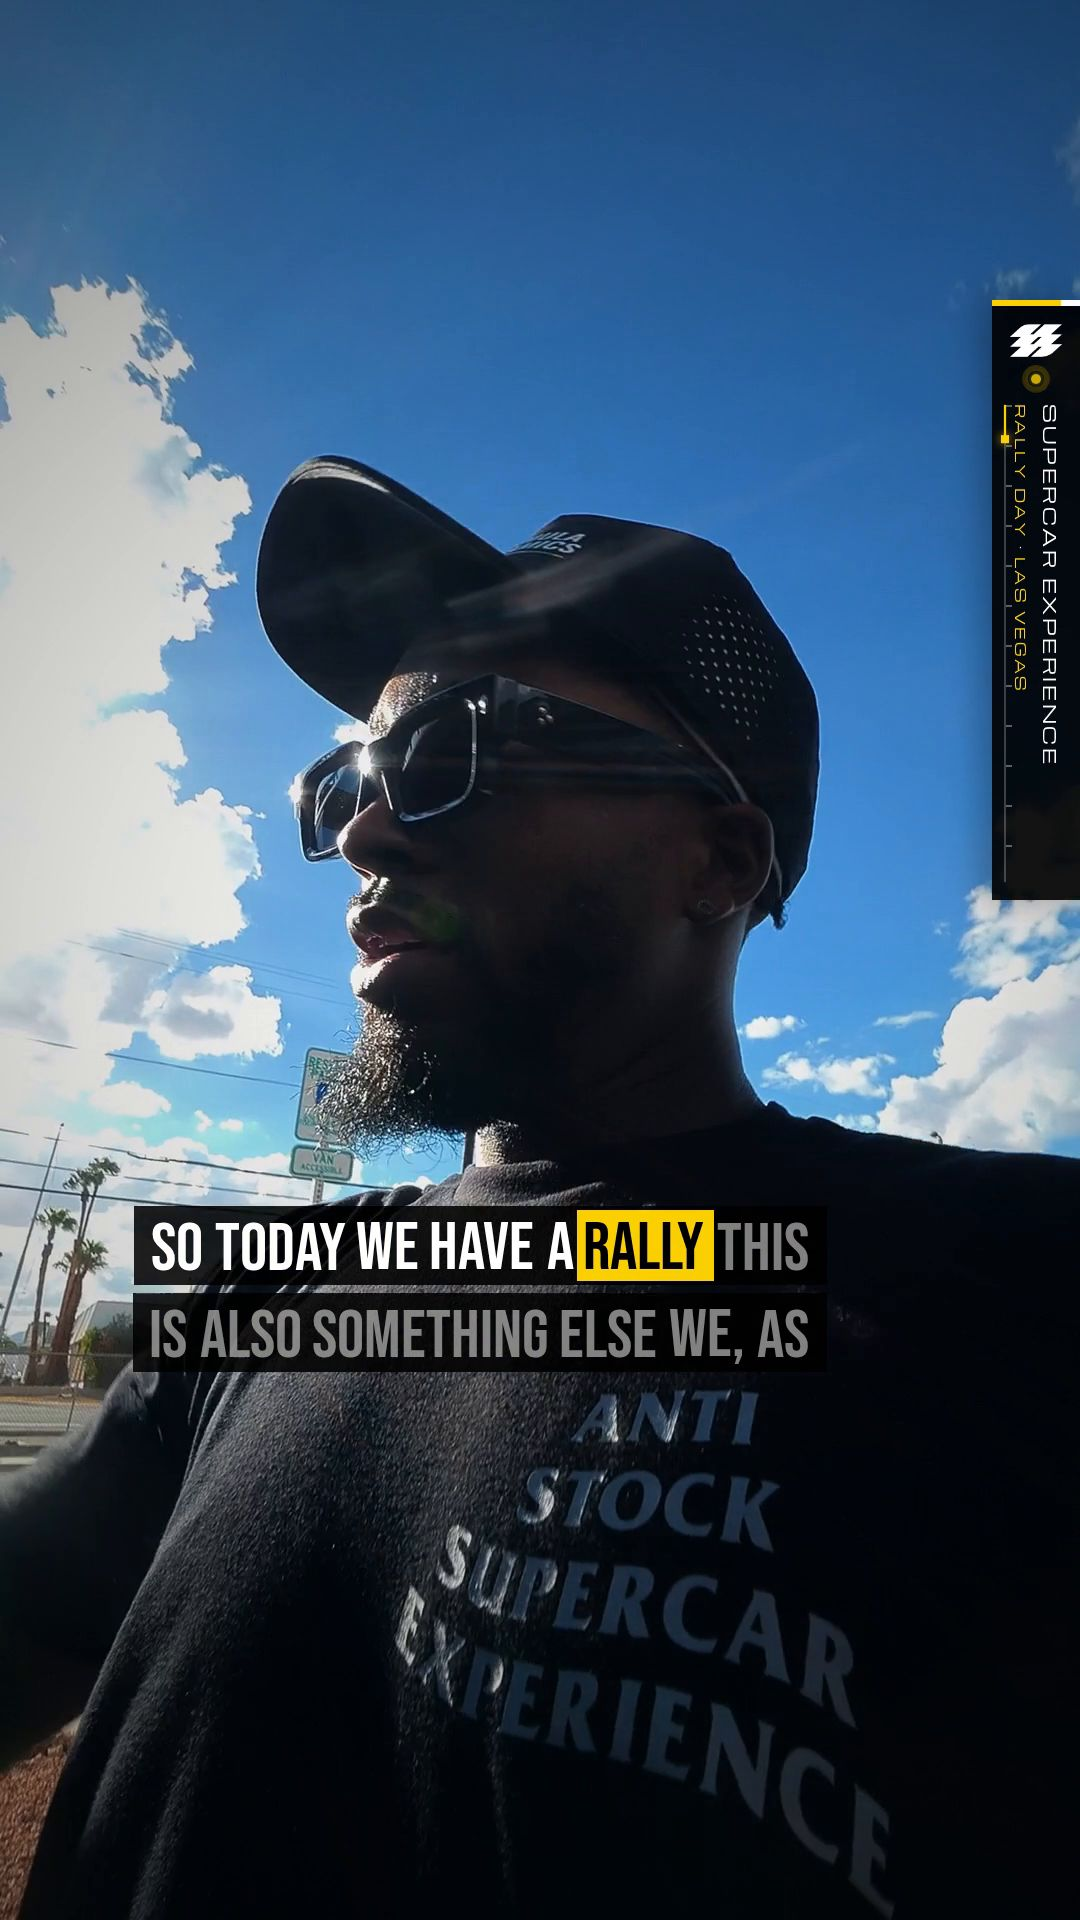
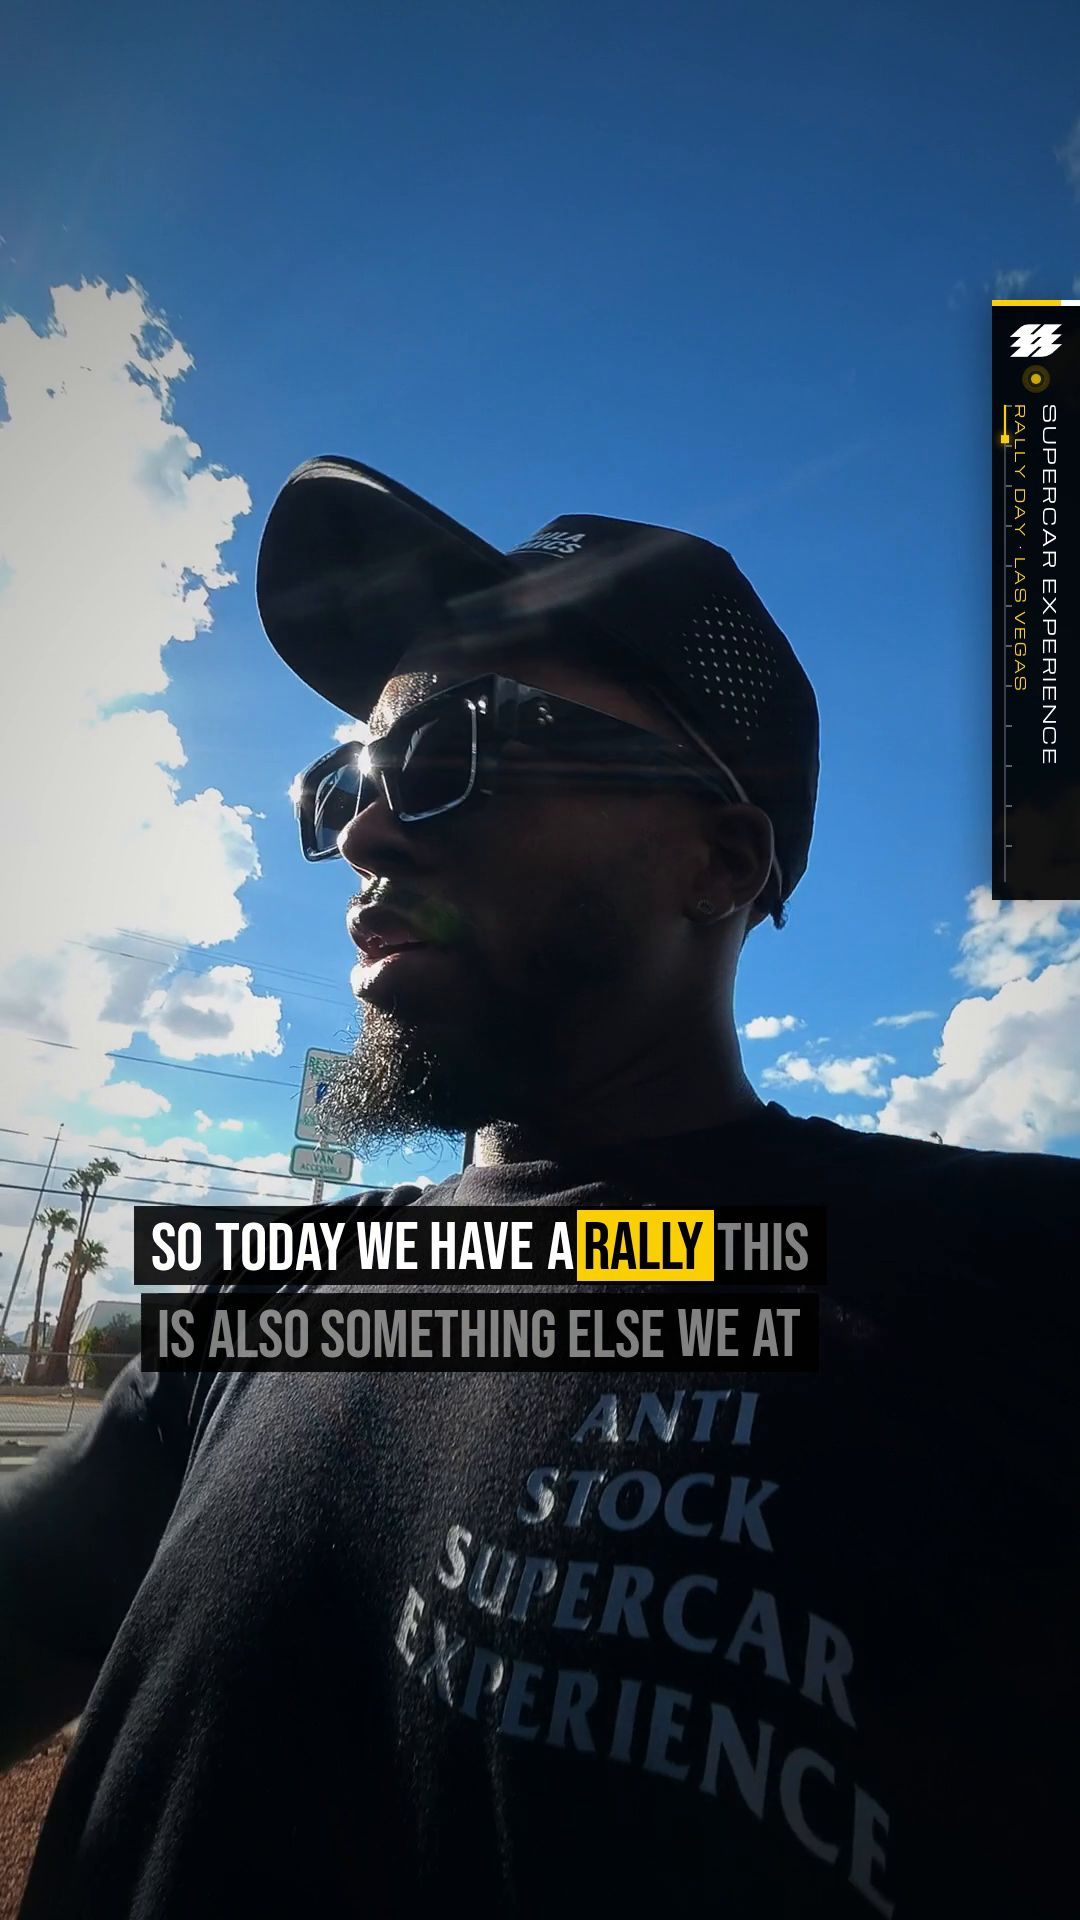
Rally vlog v2.5: caption "we at Supercar Experience" (Omarie, 28 Sept), caption-only re-render
Piece 1 read "we, as". Only frames 240-479 differ from v2.4 (the two encode segments around
that caption page were re-encoded, the other 42 reused by stream copy). Audio stream identical.

Claude-Session: https://claude.ai/code/session_016VmjG8nBsnFX9rf6sSNJmZ

Changed region(s): [[0.1222, 0.6562, 0.7639, 0.7188]]

diff --git a/supercar-experience/10-vlog-locked-on/2026-09-15-rally-v2/README.md b/supercar-experience/10-vlog-locked-on/2026-09-15-rally-v2/README.md
@@ -1,4 +1,4 @@
-# Rally vlog v2.4, Sep 15 (Egnyte rally day): rebuilt from the raw footage, Locked-On for vlogs (9:16)
+# Rally vlog v2.5, Sep 15 (Egnyte rally day): rebuilt from the raw footage, Locked-On for vlogs (9:16)
 
 **What it is.** Omarie Young's ask: "remake the whole video from scratch using our raw footage… make the video and the
 dynamic motion graphics like you did here and the overlays… catching all key moments… show me your skills like you did the
@@ -6,7 +6,20 @@ Porsche video but in vlog format… I still want the Supercarexperience banner o
 rally was for **Egnyte**: the name appears as text only (no Egnyte marks anywhere). This folder renders the approved edit
 decisions (the EDL, 174.5 s) at the `locked-on` standard (`../../09-campaign-ads/HOUSE-STYLE.md`): a new picture edit and grade
 from the camera files, a new sound mix, and a Locked-On layer built from the vlog kit (`../vlog-kit/`) plus this vlog's own
-components. **Status: v2.4 rendered 28 Sept and passed the reviewer pass the same day. The master is the one to deliver.**
+components. **Status: v2.5 rendered 28 Sept (a caption fix on the reviewed v2.4). The v2.5 master is the one to deliver.**
+
+## v2.5 (28 Sept): one caption word
+
+Omarie confirmed that he says "we at Supercar Experience offer". The caption in piece 1 read "we, as". It now reads "we at",
+without the comma. The word timings did not change. "at" takes the slot "as" had (15.455 to 16.015 s).
+
+Only the layer and the video encode were redone. The footage, the picture and the sound are untouched. The master reuses
+the v2.4 master's own encoded segments, copied as they were, and re-encodes only segments 2 and 3 (frames 240 to 479), the
+two that hold the changed caption page (frames 301 to 478, 10.04 to 15.95 s). Against the v2.4 master, frames 240 to 479
+differ and every other frame is identical, decoded and as packets. The audio stream is bit-identical.
+
+The v2.5 master is `… vlog v2.5 - 1080x1920.mp4`: 242,258,150 bytes, 5230 frames, 174.508 s, -14.11 LUFS, -1.75 dBTP.
+The gates pass with 0 errors. The swap check finds 0 bad frames.
 
 ## v2.4 (28 Sept): the v2.3 fixes made at the source, plus the graphics fixes
 
@@ -76,7 +89,7 @@ Also in v2.4:
 - The cold open's music duck under "GT3s" comes from `audio.natSpeech`, because the v2 transcripts are gone.
 - `lib/fetchneeds.py` writes what the render reads, for the engine's `plan`.
 
-**Exports** (`exports/`, git-ignored; `2026-09-15 rally day (Egnyte) - SE LOCKED-ON vlog v2.4 …`). The table below is
+**Exports** (`exports/`, git-ignored; `2026-09-15 rally day (Egnyte) - SE LOCKED-ON vlog v2.5 …`, see v2.5 above). The table below is
 the v2 render's except the first row (v2.4). **v2.4 master:** `… vlog v2.4 - 1080x1920.mp4`, 242.28 MB (231.06 MiB),
 11.107 Mb/s, 5230 frames = 174.508 s (video / audio tracks 174.508 / 174.507 s), **-14.11 LUFS integrated, -1.75 dBTP true
 peak**, LRA 3.1, the last 102 ms digital silence; gates 0 errors / 0 warnings; swap check 0 bad frames (66 caption page

diff --git a/supercar-experience/10-vlog-locked-on/2026-09-15-rally-v2/exports/qa/gates.md b/supercar-experience/10-vlog-locked-on/2026-09-15-rally-v2/exports/qa/gates.md
@@ -1,5 +1,5 @@
 # Gates (build.py, before the render)
 
-2026-09-28 17:03; errors stop a full render, the rest is for the reviewer.
+2026-09-28 17:58; errors stop a full render, the rest is for the reviewer.
 
 - **check** F1 quote card F1 101.80-110.45 s, label "OMARIE · @NQ.YOUNG", words from clip 0021: confirm who is speaking (no speaker labels in the transcripts)
